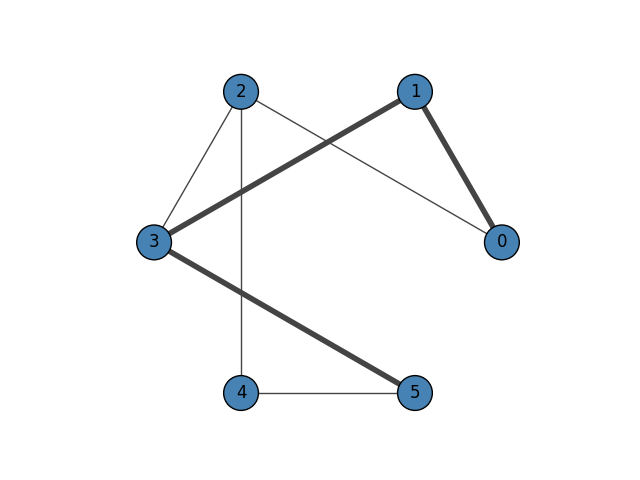
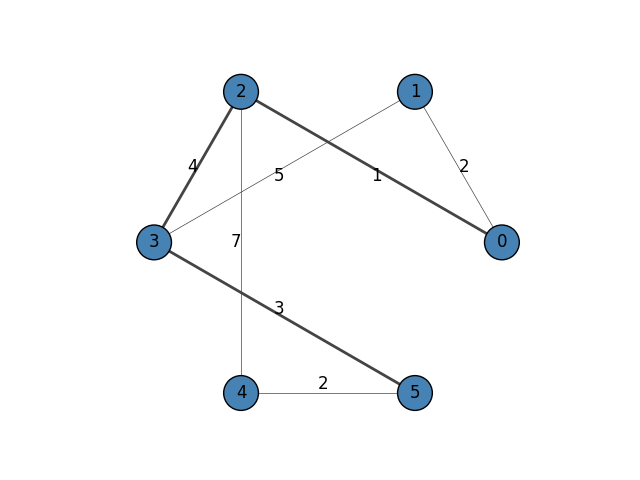
Corrected shortest path visualisation
Added edge labels and fixed the path to reflect the one found in
g.get_shortest_path()

diff --git a/doc/source/tutorials/shortest_paths/shortest_paths.rst b/doc/source/tutorials/shortest_paths/shortest_paths.rst
@@ -80,27 +80,31 @@ In case you are wondering how the visualization figure was done, here's the code
 
     import igraph as ig
     import matplotlib.pyplot as plt
-    
-    # Find the shortest path on an unweighted graph
+
+    import igraph as ig
+    import matplotlib.pyplot as plt
+
+    # Construct the graph
     g = ig.Graph(
         6,
         [(0, 1), (0, 2), (1, 3), (2, 3), (2, 4), (3, 5), (4, 5)]
     )
     g.es["weight"] = [2, 1, 5, 4, 7, 3, 2]
-       
-    # g.get_shortest_paths() returns a list of edge ID paths
-    results = g.get_shortest_paths(0, to=5, weights=g.es["weight"], output="epath")  # results = [[1, 3, 5]] 
+
+    # Get the shortest paths along edges
+    results = g.get_shortest_paths(0, to=5, weights=g.es["weight"], output="epath")  # results = [[1, 3, 5]]
+
+    # Plot the graph
+    g.es['width'] = 0.5
+    g.es[results[0]]['width'] = 2
 
     fig, ax = plt.subplots()
-    g.es['width'] = 1
-    for edge in g.es:
-        if set([edge.source, edge.target]) in [set([0, 1]), set([1, 3]), set([3, 5])]:
-            edge['width'] = 4
     ig.plot(
         g,
         target=ax,
         layout='circle',
         vertex_color='steelblue',
-        vertex_label=['0', '1', '2', '3', '4', '5'],
+        vertex_label=range(g.vcount()),
         edge_width=g.es['width'],
+        edge_label=g.es["weight"]
     )
